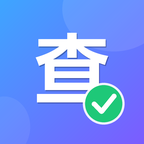
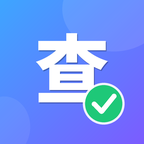
头像改用思源黑体(SIL OFL)，彻底避开微软雅黑版权风险
- 微软雅黑/黑体/宋体/楷体为微软(方正)授权字体，仅授权 Windows 内使用，
  渲染进对外分发的头像属再分发 → 一律不用
- 改用思源黑体 SourceHanSansSC-Heavy(Adobe, SIL OFL 1.1，明确允许商用与再分发)
- make-avatar.py：字体改为从 assets/fonts 查找开源字体，找不到直接报错退出并打印
  下载命令，**绝不静默回退到微软雅黑**（静默回退会悄悄引入版权风险）
- 字体文件 17MB 不入库(.gitignore)，新增 assets/fonts/README.md 记录授权与下载方式
- 像素校验：中心字形白占比 53.6%、四角为品牌渐变蓝→紫、对勾徽章为绿色

Changed region(s): [[0.25, 0.2222, 0.7778, 0.7222]]

diff --git a/scripts/make-avatar.py b/scripts/make-avatar.py
@@ -9,7 +9,17 @@ from PIL import Image, ImageDraw, ImageFont
 import os
 
 SIZE = 1024
-FONT_BOLD = "C:/Windows/Fonts/msyhbd.ttc"
+
+# ⚠ 字体版权：微软雅黑(msyhbd.ttc)、黑体、宋体、楷体都是 Windows 自带的微软/方正授权字体，
+#    放进对外发布的图像（头像、宣传图）里属于再分发，有授权风险，**本项目一律不用**。
+#    这里只用 SIL OFL 1.1 授权的「思源黑体 Source Han Sans」（Adobe，明确允许商用与再分发）。
+#    字体文件不入库（17MB），首次使用前按 assets/fonts/README.md 里的命令下载一次即可。
+FONT_DIR = os.path.join(os.path.dirname(__file__), "..", "assets", "fonts")
+FONT_CANDIDATES = [
+    os.path.join(FONT_DIR, "SourceHanSansSC-Heavy.otf"),
+    os.path.join(FONT_DIR, "SourceHanSansSC-Bold.otf"),
+    os.path.join(FONT_DIR, "SourceHanSansSC-Black.otf"),
+]
 
 BLUE = (62, 166, 255)    # #3EA6FF
 PURPLE = (124, 92, 255)  # #7C5CFF
@@ -32,6 +42,20 @@ def make_gradient(size):
     return img
 
 
+def pick_font(size):
+    """找到第一个可用的开源字体；找不到就明确报错（绝不静默回退到微软雅黑）"""
+    path = next((p for p in FONT_CANDIDATES if os.path.exists(p)), None)
+    if not path:
+        raise SystemExit(
+            "\n缺少开源中文字体。请先执行一次：\n"
+            "  mkdir -p assets/fonts && curl -L -o assets/fonts/SourceHanSansSC-Heavy.otf \\\n"
+            "    https://ghproxy.net/https://raw.githubusercontent.com/adobe-fonts/source-han-sans/"
+            "release/OTF/SimplifiedChinese/SourceHanSansSC-Heavy.otf\n"
+            "（思源黑体，SIL OFL 1.1，允许商用与再分发。详见 assets/fonts/README.md）\n")
+    print("使用字体: " + os.path.basename(path))
+    return ImageFont.truetype(path, size)
+
+
 def build(size):
     img = make_gradient(size).convert("RGBA")
 
@@ -48,7 +72,7 @@ def build(size):
 
     # 中央大字「查」（白色粗体，带轻微投影）
     draw = ImageDraw.Draw(img)
-    font = ImageFont.truetype(FONT_BOLD, int(size * 0.52))
+    font = pick_font(int(size * 0.52))
     bbox = draw.textbbox((0, 0), "查", font=font)
     w, h = bbox[2] - bbox[0], bbox[3] - bbox[1]
     cx, cy = size / 2, size * 0.47  # 视觉中心略上移，给徽章留位

diff --git a/assets/fonts/README.md b/assets/fonts/README.md
@@ -1,0 +1,37 @@
+# 字体说明（重要：版权）
+
+头像等对外发布的图片**一律不使用微软雅黑 / 黑体 / 宋体 / 楷体**——它们是 Windows 自带的
+微软（及方正）授权字体，只授权在 Windows 内使用，把字形渲染进对外分发的图片属于再分发行为。
+
+本项目使用：
+
+- **思源黑体 Source Han Sans SC（Adobe，SIL Open Font License 1.1）**
+  明确允许商用、修改、再分发，是 Logo / 宣传图最安全的中文黑体选择之一。
+  授权全文：<https://github.com/adobe-fonts/source-han-sans/blob/master/LICENSE.txt>
+
+## 首次使用：下载一次字体
+
+字体文件 17MB，**不入库**（已在 .gitignore 排除），每台机器拉一次即可：
+
+```bash
+mkdir -p assets/fonts
+curl -L -o assets/fonts/SourceHanSansSC-Heavy.otf \
+  https://ghproxy.net/https://raw.githubusercontent.com/adobe-fonts/source-han-sans/release/OTF/SimplifiedChinese/SourceHanSansSC-Heavy.otf
+```
+
+（本机 GitHub 直连不通，走 ghproxy 镜像；通的话去掉代理前缀即可。Heavy 字重最适合头像，
+也可用 Bold / Black。）
+
+下载后重新生成头像：
+
+```bash
+python scripts/make-avatar.py
+```
+
+脚本找不到开源字体会直接报错退出，**不会静默回退到微软雅黑**（回退会悄悄引入版权风险）。
+
+## 若将来要换成别的字体
+
+必须是明确授权商用的，例如：思源黑体（OFL）、阿里巴巴普惠体（免费商用授权）、
+OPPO Sans / MiSans（免费商用）、得意黑 Smiley Sans（OFL）、霞鹜文楷（OFL）。
+把字体文件放进 `assets/fonts/` 并在 `scripts/make-avatar.py` 的 `FONT_CANDIDATES` 里加一行即可。
